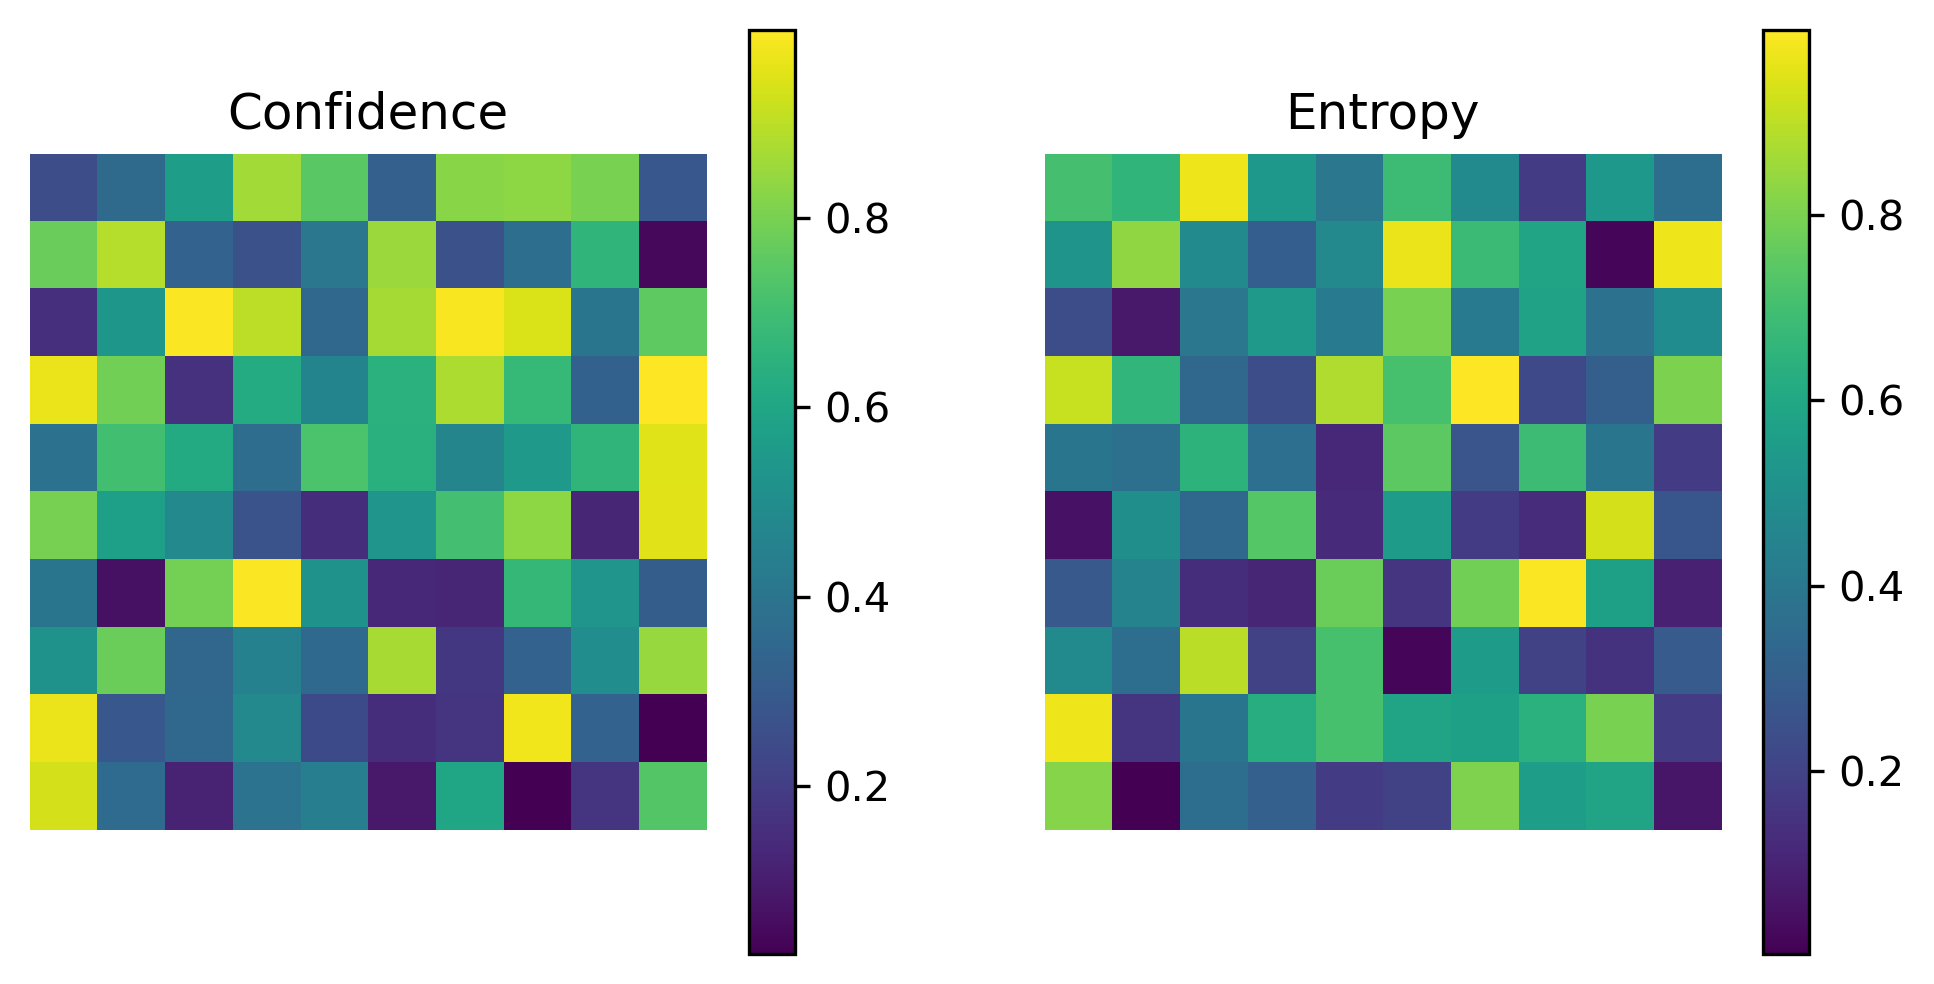
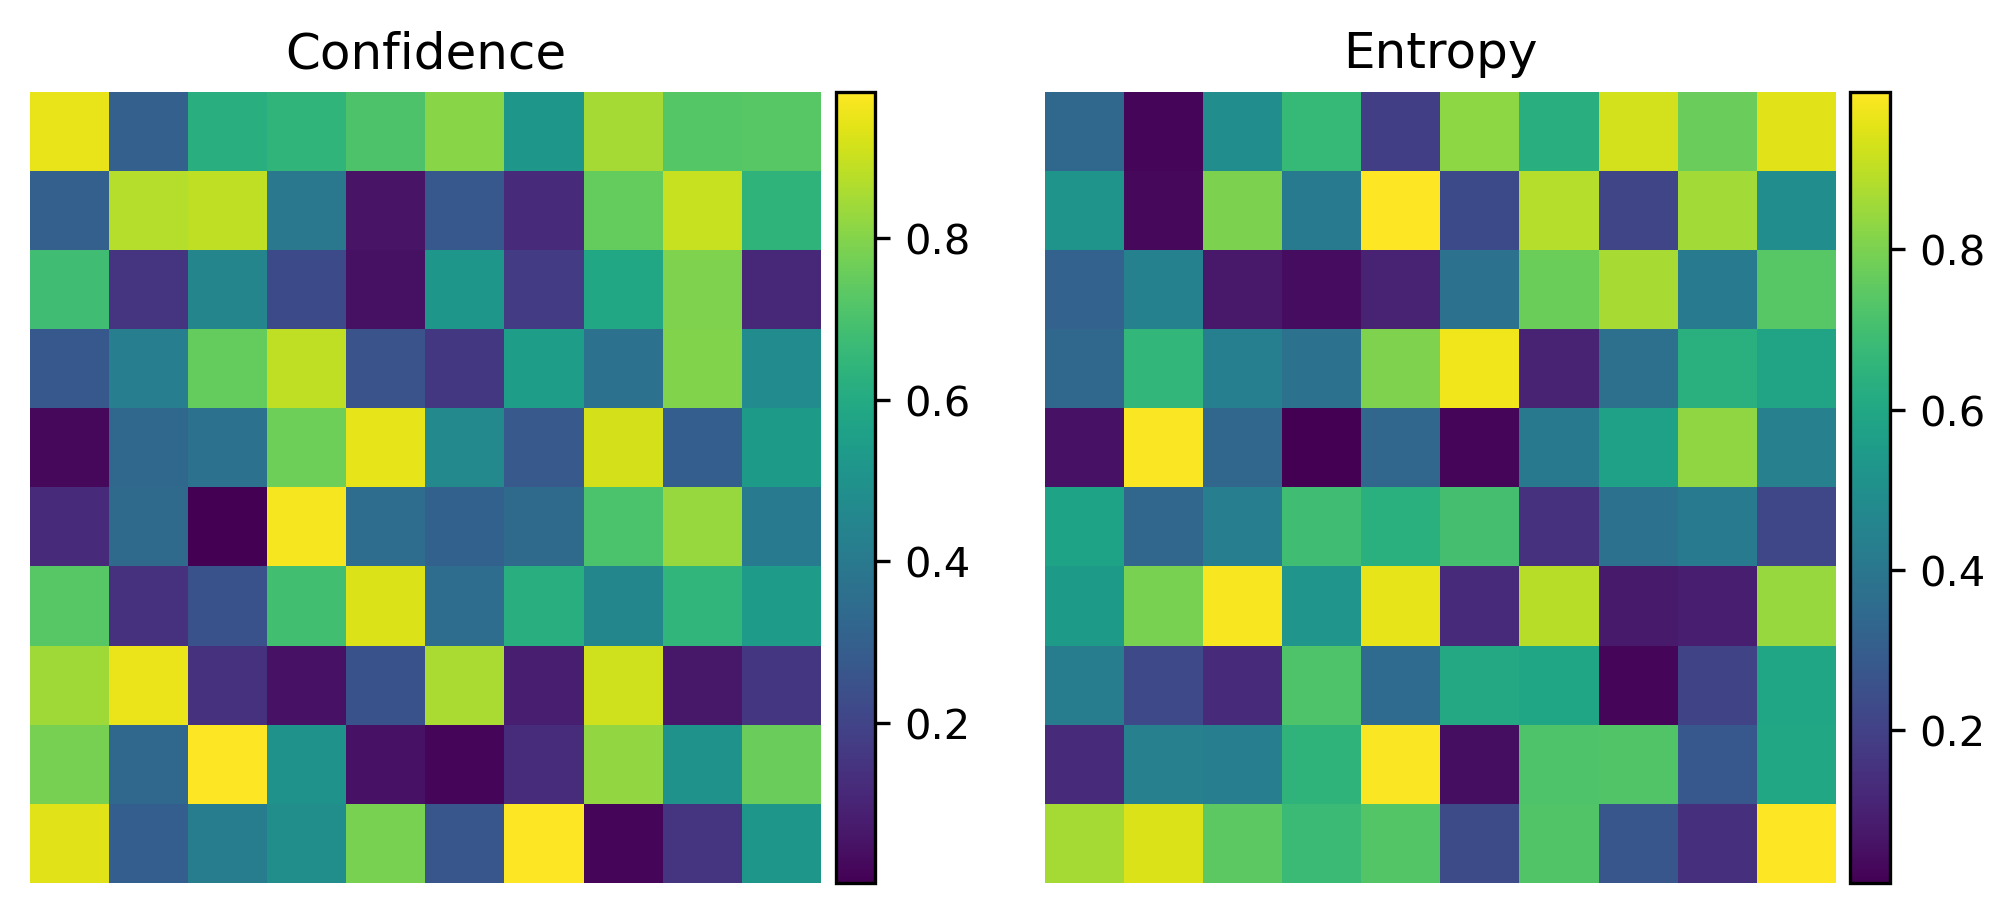
update all

diff --git a/vis_tools/vis_numpy.py b/vis_tools/vis_numpy.py
@@ -1,5 +1,6 @@
 import numpy as np
 import matplotlib.pyplot as plt
+from mpl_toolkits.axes_grid1 import make_axes_locatable
 
 def visualize_arrays(confidence_arr, entropy_arr):
     # 创建子图和画布
@@ -11,7 +12,10 @@ def visualize_arrays(confidence_arr, entropy_arr):
     ax1.set_xlabel('Width')
     ax1.set_ylabel('Height')
     ax1.axis('off')
-    fig.colorbar(im1, ax=ax1)
+    # fig.colorbar(im1, ax=ax1, shrink=1.0)
+    divider1 = make_axes_locatable(ax1)
+    cax1 = divider1.append_axes('right', size='5%', pad=0.05)
+    fig.colorbar(im1, cax=cax1)
 
     # 可视化预测熵值数组
     im2 = ax2.imshow(entropy_arr, cmap='viridis') #'hot
@@ -19,7 +23,10 @@ def visualize_arrays(confidence_arr, entropy_arr):
     ax2.set_xlabel('Width')
     ax2.set_ylabel('Height')
     ax2.axis('off')
-    fig.colorbar(im2, ax=ax2)
+    divider2 = make_axes_locatable(ax2)
+    cax2 = divider2.append_axes('right', size='5%', pad=0.05)
+    fig.colorbar(im2, cax=cax2)
+    # fig.colorbar(im2, ax=ax2, shrink=1.0)  # shrink=1.0表示颜色条的长度和图像一样长
 
     # 保存图像
     plt.savefig('visualization.png', dpi=300, bbox_inches='tight')
